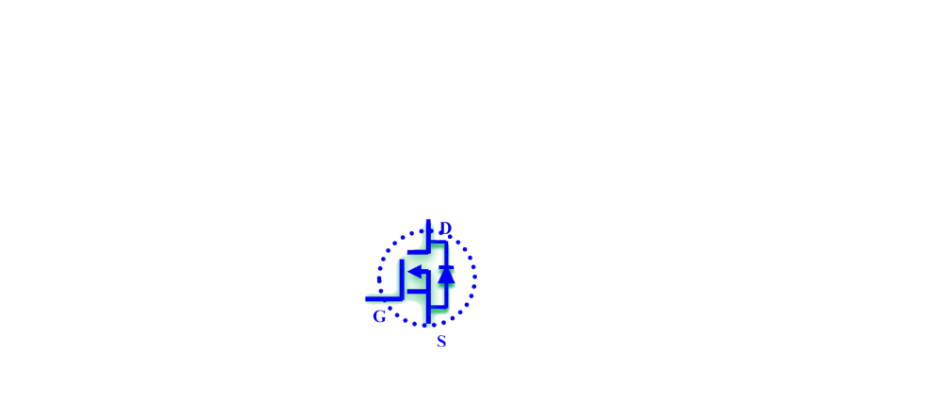
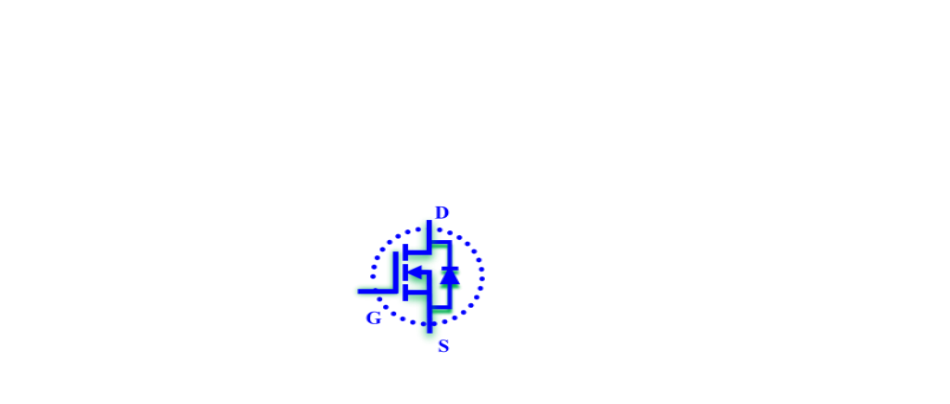
simulator done

Changed region(s): [[0.3663, 0.505, 0.5189, 0.8911]]

diff --git a/EE/EE1/main.js b/EE/EE1/main.js
@@ -727,7 +727,7 @@ full_circuit : new Dom("full_circuit"),
 full_circuit2 : new Dom("full_circuit2"),
 circuit_full_2 : new Dom("circuit_full_2"),
 circuit_full_3 : new Dom("circuit_full_3"),
-part_3_graph_arrow : new Dom("part_3_graph_arrow"),
+graph_arrow : new Dom("part_3_graph_arrow"),
 part_3_option_1 : new Dom("part_3_option_1"),
 part_3_option_2 : new Dom("part_3_option_2"),
 part_3_option_3 : new Dom("part_3_option_3"),
@@ -756,6 +756,8 @@ graph2: new Dom(".graph2"),
 graph3: new Dom(".graph3"),
 graph4: new Dom(".graph4"),
 graph5: new Dom(".graph5"),
+graph1_arrow : new Dom("graph1_arrow"),
+graph2_arrow : new Dom("graph2_arrow"),
 
 
 // ! new items dom
@@ -934,7 +936,7 @@ graph5: new Dom(".graph5"),
       let boxCount = 1;
  
       // ! Required Postion
-      Scenes.items.box_img.set(58,-10,150)
+      Scenes.items.box_img.set(58,-20,160)
       // Scenes.items.box_img.set(190,-10,150,80)
       // Scenes.items.box_img.set(270,10,100,150)
       // Scenes.items.box_img.set(445,13,100,180)
@@ -1087,7 +1089,7 @@ graph5: new Dom(".graph5"),
         "Step 2",
         "Voltage and current waveforms."
       )
-      setCC("Slide the slider of 'D' duty ratio from 0.25, 0.5 and 0.75 to see the graph.")
+      setCC("Slide 'D' duty ratio from 0.25, 0.5 and 0.75 and click the 'RUN' to see the graph.")
       Scenes.items.slider_box.show("flex")
 
       //! Required Items
@@ -1097,6 +1099,7 @@ graph5: new Dom(".graph5"),
        Scenes.items.part_2_graph_1.set(280,hConst-40,430)
        Scenes.items.part_2_graph_2.set(280,hConst-40,430).hide()
        Scenes.items.part_2_graph_3.set(280,hConst-40,430).hide()
+       Scenes.items.run_btn.item.style.cursor = "pointer"
        
        let graphLeft = 280, graphTop = -40, graphHeight = 430
 
@@ -1147,15 +1150,15 @@ graph5: new Dom(".graph5"),
 
           updateValues(vInValue,dutyRatioValue,resistanceValue)
 
-          let v0 = Formulas.v0(values)
-          let iIn = Formulas.iIn(values)
-          let i0 = Formulas.i0(values)
+          let v0 = Formulas.step2.v0(values)
+          let iIn = Formulas.step2.iIn(values)
+          let i0 = Formulas.step2.i0(values)
 
           v0 = v0.toFixed(1)
           iIn = iIn.toFixed(1)
           i0 = i0.toFixed(1)
           
-          Scenes.items.tempTitle2.setContent(Formulas.v0(values))
+          Scenes.items.tempTitle2.setContent(v0)
 
           if(dutyRatioValue==0.25){
             updateValues(vInValue,dutyRatioValue,resistanceValue)
@@ -1382,11 +1385,11 @@ graph5: new Dom(".graph5"),
     }),
     (step4 = function () {
       Dom.hideAll(); 
-      optionsDone
+      // optionsDone
       setIsProcessRunning(true);
       Scenes.items.contentAdderBox.setContent("");
       Scenes.setStepHeading(
-        "Step 4",
+        "",
         "Ideal voltage gain plot."
       );
 
@@ -1398,7 +1401,8 @@ graph5: new Dom(".graph5"),
       Scenes.items.record_btn.set(40,310,70)
       Scenes.items.part3_table_one.show()
       Scenes.items.right_tick_1.set(-12,185)
-      
+      Scenes.items.graph1_arrow.set(-5,0)
+
       // ! graph
       // * add x,y parameters for graph
       let graphData = []
@@ -1462,7 +1466,7 @@ graph5: new Dom(".graph5"),
           chart.update()
         }
       }
-      plotGraph(null,"Voltage Gain","Voltage Gain (M)","Duty Ratio (D)")
+      plotGraph(null,"Voltage Gain","Duty Ratio (D)","Voltage Gain (M)")
 
       // ! data already present
       // if(Scenes.optionsDone[0]==1){
@@ -1528,6 +1532,7 @@ graph5: new Dom(".graph5"),
             )
           }
           plotGraph(graphData,"Voltage Gain","Voltage Gain (M)","Duty Ratio (D)")
+          Scenes.items.graph1.set(null,null,190,355)
 
           // after complete
           Dom.setBlinkArrow(true, 790, 408).play()
@@ -1545,7 +1550,7 @@ graph5: new Dom(".graph5"),
 
         // deactivate the sliders after first value done
         // todo
-       if(recordBtnClickIdx == 0){
+        if(recordBtnClickIdx == 0){
           Scenes.items.slider_vIn.item.classList.add("deactive")
           Scenes.items.slider_vIn.item.children[1].children[0].disabled = true
           Scenes.items.slider_R.item.children[1].children[0].disabled = true
@@ -1581,7 +1586,7 @@ graph5: new Dom(".graph5"),
       setIsProcessRunning(true);
       Dom.hideAll()
       Scenes.setStepHeading(
-        "Step 5",
+        "",
         "Non-ideal voltage gain plot."
       );
       setCC("Record minimum 7 reading for 3 different load resistances.")
@@ -1593,6 +1598,9 @@ graph5: new Dom(".graph5"),
        Scenes.items.record_btn.set(40,310,70)
        Scenes.items.part3_table_two.show("flex")
        Scenes.items.right_tick_1.set(-3,185)
+      Scenes.items.graph2_arrow.set(-5,0)
+
+
 
        // ! graph
       Scenes.items.graph2.set(null,null,190,345)
@@ -1830,7 +1838,7 @@ graph5: new Dom(".graph5"),
       setIsProcessRunning(true);
  
       Scenes.setStepHeading(
-        "Step 6",
+        "",
         "Efficiency. Plot"
       )
       setCC("Record minimum 7 reading for different Load Resistances (R0)")
@@ -1842,6 +1850,7 @@ graph5: new Dom(".graph5"),
        Scenes.items.record_btn.set(40,310,70)
        Scenes.items.part3_table_three.show()
        Scenes.items.right_tick_1.set(-5,185)
+
 
        // ! graph
       Scenes.items.graph3.set(null,null,220,355)
@@ -1955,7 +1964,7 @@ graph5: new Dom(".graph5"),
       setIsProcessRunning(true);
  
       Scenes.setStepHeading(
-        "Step 7",
+        "",
         "Component Stress and Selection"
       )
 
@@ -2174,14 +2183,14 @@ graph5: new Dom(".graph5"),
          tableRow.cells[1-1].innerHTML = vInValue
          tableRow.cells[2-1].innerHTML = dutyRatioValue
          tableRow.cells[3-1].innerHTML = resistanceValue
-         tableRow.cells[4-1].innerHTML = Formulas.v0(values)
-         tableRow.cells[5-1].innerHTML = Formulas.M_1(values)
-         tableRow.cells[6-1].innerHTML = Formulas.iIn(values)
-         tableRow.cells[7-1].innerHTML = Formulas.i0(values)
+         tableRow.cells[4-1].innerHTML = Formulas.stress.v0(values)
+         tableRow.cells[5-1].innerHTML = Formulas.stress.M(values)
+         tableRow.cells[6-1].innerHTML = Formulas.stress.iIn(values)
+         tableRow.cells[7-1].innerHTML = Formulas.stress.i0(values)
 
          let v0 = Formulas.stress.v0(values)
          let iIn = Formulas.stress.iIn(values)
-         let ic = Number(vInValue - Formulas.stress.i0(values)).toFixed(2)
+         let ic = Number(Formulas.stress.iIn(values) - Formulas.stress.i0(values)).toFixed(2)
          // table two changes
          let table2Row = Scenes.items.part3_table_four_2.item.tBodies[0].rows
         table2Row[0].cells[1].innerHTML = `> v<sub>S</sub> (${v0})`
@@ -2194,7 +2203,7 @@ graph5: new Dom(".graph5"),
 
         // ! add values to graph
         let graph1_data = [v0,v0,v0]
-        let graph2_data = [iIn,iIn,i0]
+        let graph2_data = [iIn,iIn,ic]
 
         graph.addData(chart1,0,graph1_data)
         graph.addData(chart2,0,graph2_data)
@@ -2295,7 +2304,7 @@ var rangeSlider = function () {
 rangeSlider();
 
 // stepcalling
-Scenes.currentStep = 4
+Scenes.currentStep = 2
 Scenes.next()  
 // Scenes.steps[3]()
 // Scenes.next()

diff --git a/EE/EE1/layout.html b/EE/EE1/layout.html
@@ -31,7 +31,7 @@
         <div class="codelab-time-container" style="display: none"></div>
         <div class="steps">
           <ol>
-            <li class="">
+            <!-- <li class="">
               <a>
                 <span class="step">
                   <span>Introduction</span>
@@ -44,7 +44,7 @@
                   <span>Objective</span>
                 </span>
               </a>
-            </li>
+            </li> -->
             <!-- <li>
               <a>
                 <span class="step">
@@ -119,13 +119,13 @@
                 </span>
               </a>
             </li> -->
-            <li>
+            <!-- <li>
               <a>
                 <span class="step">
                   <span>Completed</span>
                 </span>
               </a>
-            </li>
+            </li> -->
           </ol>
         </div>
       </nav>
@@ -141,9 +141,9 @@
               ></div>
               <div class="progress-step" data-title=""></div>
               <div class="progress-step" data-title=""></div>
-              <div class="progress-step" data-title=""></div>
-              <div class="progress-step" data-title=""></div>
-              <div class="progress-step" data-title=""></div>
+              <!-- <div class="progress-step" data-title=""></div> -->
+              <!-- <div class="progress-step" data-title=""></div>
+              <div class="progress-step" data-title=""></div> -->
               <!-- <div class="progress-step" data-title=""></div> -->
               <!-- <div class="progress-step" data-title=""></div> -->
               <!-- <div class="progress-step" data-title=""></div>
@@ -759,7 +759,7 @@
               </div>
 
               <!-- * Slider Box -->
-              <div class="slider-box">
+              <div class="slider-box" style="z-index: 1000;">
                 <div class="slider slider_vIn">
                   <span class="title">V<sub>in</sub></span>
                   <div class="range-slider">
@@ -1029,7 +1029,7 @@ alt="part_3_option_4.png"
 
 <img
 class="main-window-imgs"
-style="cursor: pointer;"
+style="cursor: pointer;z-index: 1000;"
 src="./src/images/record_btn.png"
 />
 <img
@@ -1081,6 +1081,14 @@ src="./src/images/run_btn.png"
     src="./src/images/right_tick.png"
     alt="right_tick.png"
 />
+<img
+        class="main-window-imgs"
+        src="./src/images/graph2_arrow.png"
+    />
+<img
+        class="main-window-imgs"
+        src="./src/images/graph2_arrow.png"
+    />
 
 
 
@@ -1117,7 +1125,7 @@ src="./src/images/run_btn.png"
 
              <!-- * Temp texts for showing some text in anime -->
               <span
-                style="background-color:gold; height: fit-content; border-radius: 5px; width: 100px; font-weight: bolder"
+                style="background-color:white; height: fit-content; font-size: large; border-radius: 5px; width: 120px; font-weight: bolder"
                 class="temp-text"
               ></span>
               <span
@@ -1212,7 +1220,7 @@ src="./src/images/run_btn.png"
               <!-- * Bottom Subtitles Div -->
               <div style="margin-left: 120px;" class="steps-subtitle">
                 <!-- <p class="user-name">Hey👋 Sneha</p> -->
-                <p style="text-align: center;" class="subtitle" id="subtitle"></p>
+                <p style="text-align: center; font-size: 1.3em; " class="subtitle" id="subtitle"></p>
               </div>
               <btn class="btn btn-next">Next</btn>
               <btn

diff --git a/EE/EE1/formulas.js b/EE/EE1/formulas.js
@@ -2,6 +2,20 @@ const Formulas = {
     one_minus_D(D){
         return 1 - D
     },
+    step2:{
+        v0(values){
+            let ans = values.vIn / Formulas.one_minus_D(values.D)
+            return Number(ans.toFixed(2))
+        },
+        i0(values){
+            let ans = this.v0(values) / values.R
+            return Number(ans.toFixed(2))
+        },
+        iIn(values){
+            let ans = this.i0(values) / Formulas.one_minus_D(values.D)
+            return Number(ans.toFixed(2))
+        }
+    },
     ideal:{
         v0(values){
             let ans = values.vIn / Formulas.one_minus_D(values.D)
@@ -35,7 +49,7 @@ const Formulas = {
     },
     efficiencyPlot:{
         v0(values){
-            let ans = this.M(values) * this.vIn(values)
+            let ans = this.M(values) * values.vIn
             return Number(ans.toFixed(2))
         },
         M(values){
@@ -72,16 +86,11 @@ const Formulas = {
     },
     stress:{
         v0(values){
-            let ans = this.M(values) * this.vIn(values)
+            let ans = this.M(values) * values.vIn
             return Number(ans.toFixed(2))
         },
         M(values){
-            const rl = 0.2, rs = 0.2, vFD = 0.7, rc = 0.25
-            
-            let upper = 1 - ((vFD * Formulas.one_minus_D(values.D)) /  values.vIn)
-            let bottom = Formulas.one_minus_D(values.D) * (1 + (( rl + rs * values.D) /  (values.R * Math.pow(Formulas.one_minus_D(values.D),2)) ) )
-
-            let ans = upper / bottom
+            let ans = 1 / Formulas.one_minus_D(values.D)
             return Number(ans.toFixed(2))
         },
         iIn(values){

diff --git a/EE/EE1/imgs.css b/EE/EE1/imgs.css
@@ -39,9 +39,16 @@
     opacity: 0;
     display: none;
 }
-.main-window-imgs, .blinkArrow{
+.main-window-imgs{
     display: none;
     position: absolute;
+
+}
+.blinkArrow{
+    display: none;
+    filter:brightness(4);
+    position: absolute;
+
 }
 
 .main-window-videos{

diff --git a/EE/EE1/src.js b/EE/EE1/src.js
@@ -53,6 +53,8 @@ right_tick_1:this.allImgsDom[35],
 right_tick_2:this.allImgsDom[36],
 right_tick_3:this.allImgsDom[37],
 right_tick_4:this.allImgsDom[38],
+graph1_arrow:this.allImgsDom[40],
+graph2_arrow:this.allImgsDom[41],
 
 
       // * Question Mark

diff --git a/EE/EE1/component_styling.css b/EE/EE1/component_styling.css
@@ -235,7 +235,7 @@
     box-sizing: border-box;
     background-color: white;
     border-radius: 20px;
-    box-shadow: 2px 2px 4px;
+    box-shadow: 2px 2px 4px;    
 }
 
 .graph{

diff --git a/EE/EE1/layout.css b/EE/EE1/layout.css
@@ -375,5 +375,6 @@ body{
   }
   .image-box .image{
     border-radius: 10px;
-
   }
+
+  
